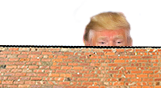
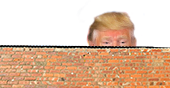
trump tweets

Changed region(s): [[0.0, 0.1136, 1.0, 1.0], [0.7143, 0.2955, 0.7453, 0.3182]]

diff --git a/src/sass/partials/_stats.scss b/src/sass/partials/_stats.scss
@@ -120,7 +120,7 @@
     .trump-tracker__data-wall {
         position: absolute;
         bottom: -10px;
-        right: -20px;
+        left: -20px;
     }
 }
 
